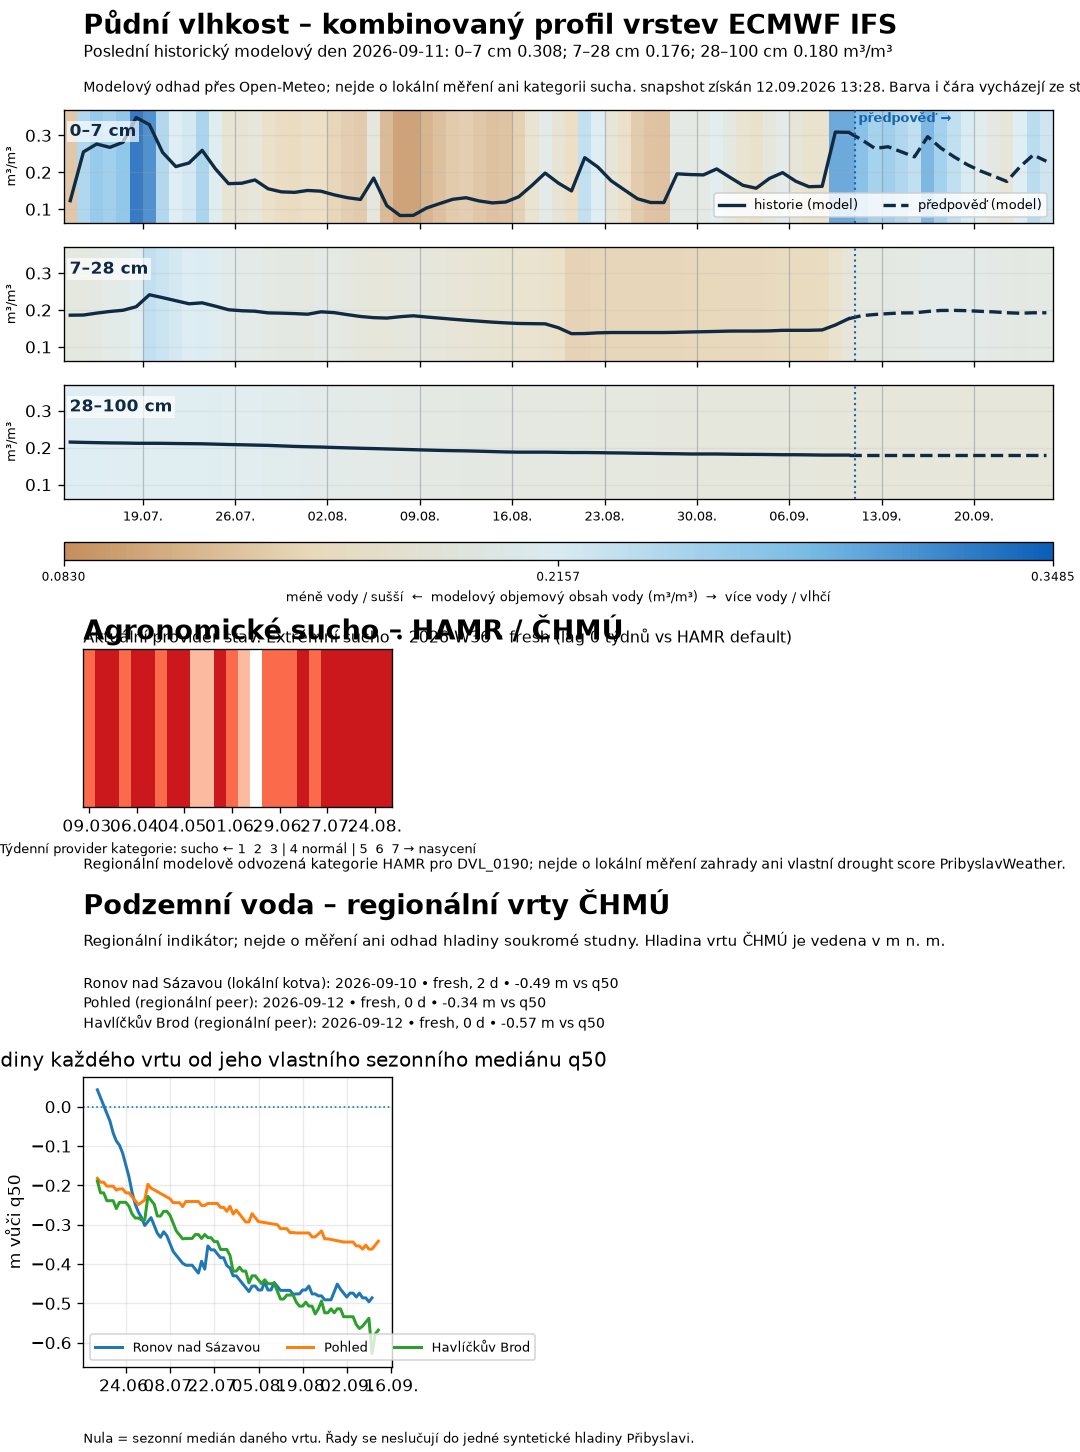
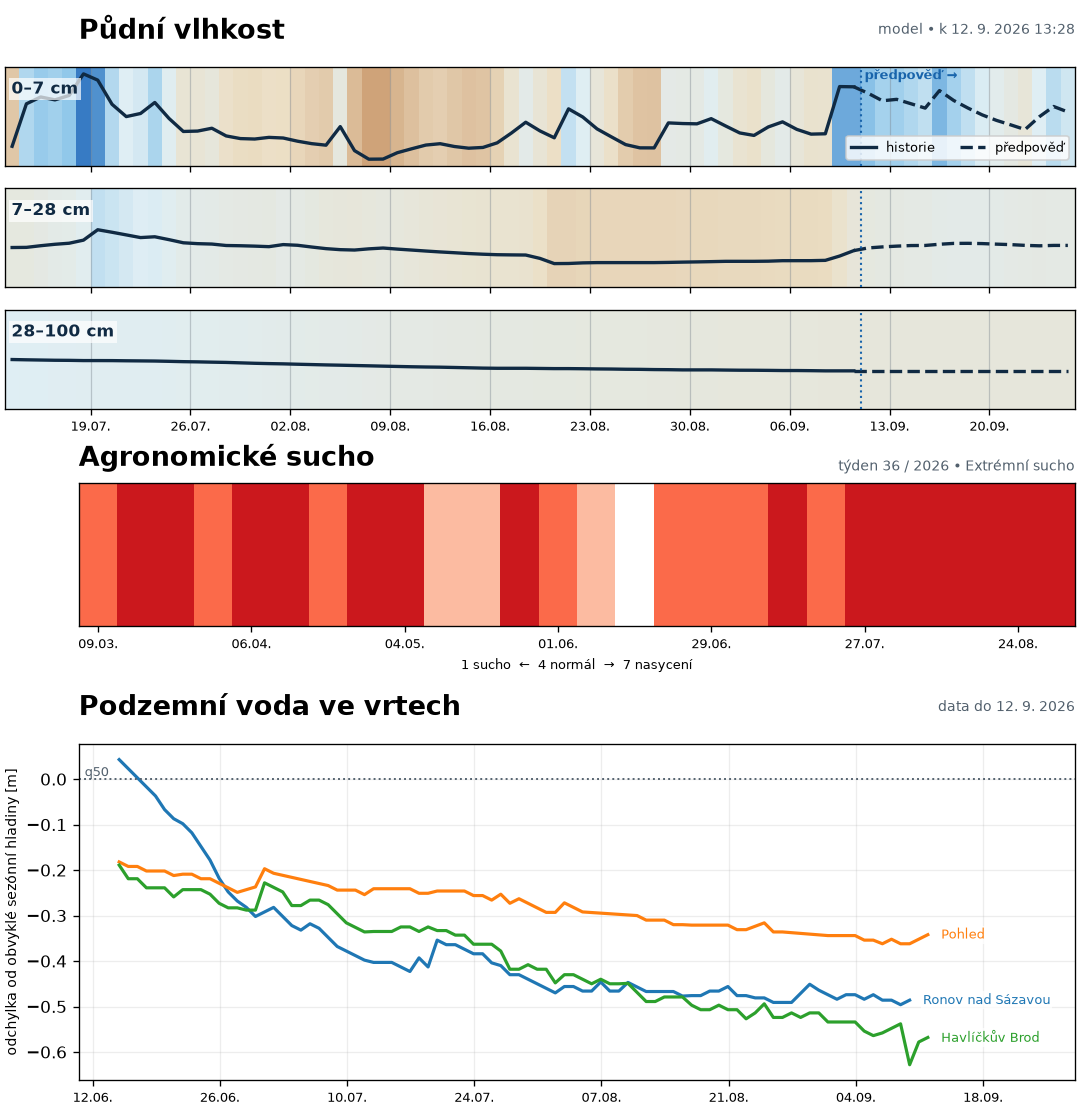
Publish weather dashboard

diff --git a/index.html b/index.html
@@ -101,6 +101,26 @@
       border-radius: 10px;
       background: color-mix(in srgb, CanvasText 4%, Canvas);
     }
+    .environment-details {
+      margin-top: 9px;
+      display: grid;
+      gap: 6px;
+    }
+    .environment-details details {
+      border: 1px solid color-mix(in srgb, CanvasText 16%, transparent);
+      border-radius: 9px;
+      padding: 8px 10px;
+      background: color-mix(in srgb, CanvasText 2.5%, Canvas);
+      font-size: .79rem;
+      line-height: 1.42;
+    }
+    .environment-details summary {
+      cursor: pointer;
+      font-weight: 650;
+    }
+    .environment-details p {
+      margin: 7px 0 0;
+    }
     @media (min-width: 900px) {
       .radar-grid { grid-template-columns: repeat(2, minmax(0, 1fr)); }
       .radar-frame { min-height: 360px; }
@@ -164,10 +184,24 @@
 
     <section id="environment" aria-labelledby="environment-title">
       <h2 id="environment-title">Půda a voda</h2>
-      <p class="environment-intro">Modelový odhad půdní vlhkosti ECMWF IFS / Open-Meteo. Jde o objemový obsah vody v modelových vrstvách; nejde o lokální měření, procento rostlinám dostupné vody ani kategorii sucha.</p>
+      <p class="environment-intro">Dlouhodobější stav půdy, agronomického sucha a podzemní vody. Hlavní obrázek je záměrně stručný; metodika a omezení jsou rozbalovací pod ním.</p>
       <a class="dashboard-link" href="environment.png" target="_blank" rel="noopener">
-        <img id="environment-dashboard" src="environment.png" alt="Modelový přehled půdní vlhkosti pro Přibyslav">
+        <img id="environment-dashboard" src="environment.png" alt="Přehled půdní vlhkosti, agronomického sucha a podzemní vody pro oblast Přibyslavi">
       </a>
+      <div class="environment-details">
+        <details>
+          <summary>Jak číst půdní vlhkost</summary>
+          <p>Modelový odhad ve třech pásech používá ECMWF IFS přes Open-Meteo ve vrstvách 0–7, 7–28 a 28–100 cm. Plná čára je historický modelový odhad, přerušovaná část předpověď; svislá tečkovaná hranice odděluje minulost od forecastu. Jednotkou zdrojových hodnot je m³/m³. Barva je relativní k rozsahu právě zobrazených hodnot a není kategorií sucha. Nejde o lokální měření ani o procento rostlinám dostupné vody.</p>
+        </details>
+        <details>
+          <summary>Jak číst agronomické sucho</summary>
+          <p>Pás přebírá týdenní provider kategorii HAMR / ČHMÚ pro DVL_0190 beze změny významu: 1 = extrémní sucho, 2 = výrazné sucho, 3 = mírné sucho, 4 = normální stav, 5 = mírné nasycení, 6 = výrazné nasycení, 7 = extrémní nasycení. Jde o regionální modelově odvozený indikátor, nikoli o lokální měření zahrady nebo vlastní skóre PribyslavWeather.</p>
+        </details>
+        <details>
+          <summary>Jak číst podzemní vodu ve vrtech</summary>
+          <p>Regionální indikátor; nejde o měření ani odhad hladiny soukromé studny. Čáry jsou tři samostatné vrty ČHMÚ. Zobrazuje se odchylka hladiny každého vrtu od jeho vlastního sezónního mediánu q50: nula je obvyklá sezónní hladina daného vrtu, kladná hodnota znamená vyšší a záporná nižší hladinu vůči tomuto mediánu. Řady se neslučují do jedné syntetické hladiny Přibyslavi. Z regionálního trendu nelze numericky odvodit hladinu soukromé 11m studny.</p>
+        </details>
+      </div>
     </section>
   </main>
   <script>
